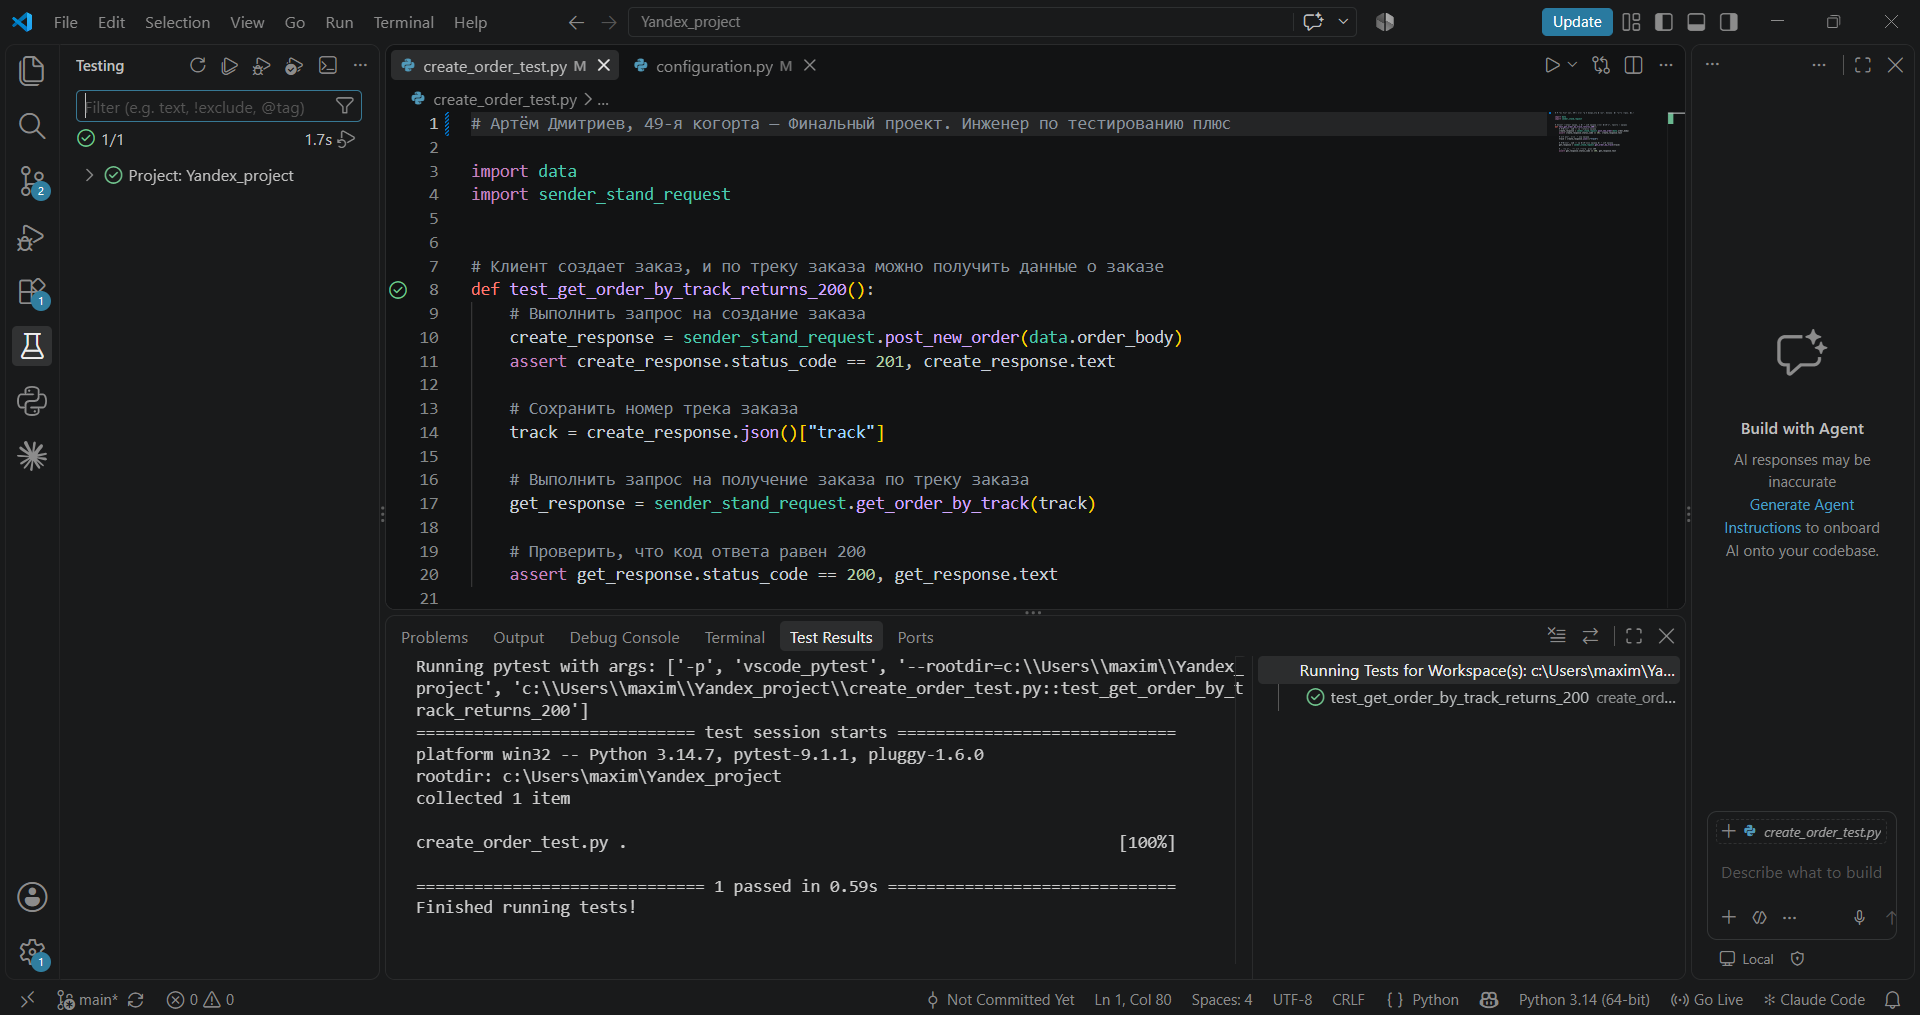
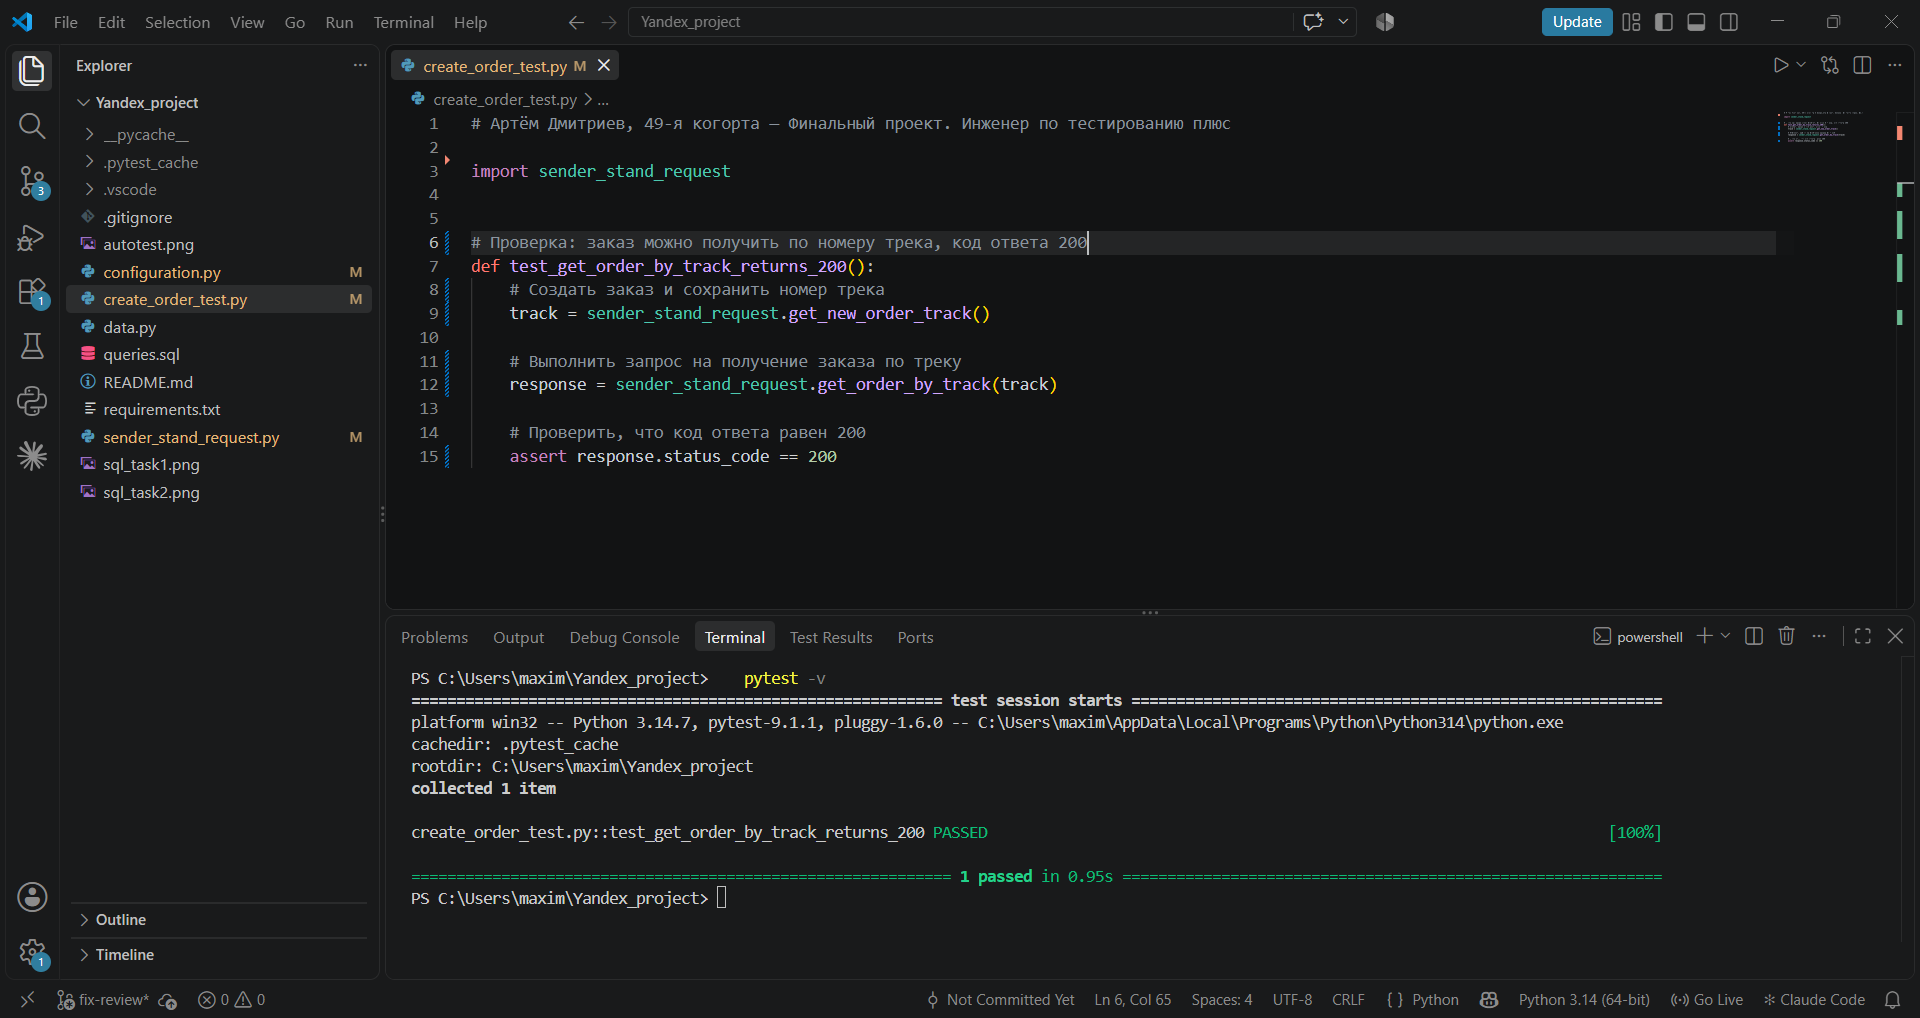
Тест проверяет одну функцию

diff --git a/create_order_test.py b/create_order_test.py
@@ -1,20 +1,15 @@
 # Артём Дмитриев, 49-я когорта — Финальный проект. Инженер по тестированию плюс
 
-import data
 import sender_stand_request
 
 
-# Клиент создает заказ, и по треку заказа можно получить данные о заказе
+# Проверка: заказ можно получить по номеру трека, код ответа 200
 def test_get_order_by_track_returns_200():
-    # Выполнить запрос на создание заказа
-    create_response = sender_stand_request.post_new_order(data.order_body)
-    assert create_response.status_code == 201, create_response.text
+    # Создать заказ и сохранить номер трека
+    track = sender_stand_request.get_new_order_track()
 
-    # Сохранить номер трека заказа
-    track = create_response.json()["track"]
-
-    # Выполнить запрос на получение заказа по треку заказа
-    get_response = sender_stand_request.get_order_by_track(track)
+    # Выполнить запрос на получение заказа по треку
+    response = sender_stand_request.get_order_by_track(track)
 
     # Проверить, что код ответа равен 200
-    assert get_response.status_code == 200, get_response.text
+    assert response.status_code == 200

diff --git a/sender_stand_request.py b/sender_stand_request.py
@@ -4,14 +4,20 @@ import configuration
 import data
 
 
-# Создание заказа: POST /api/v1/orders
+# Создание заказа
 def post_new_order(body):
     return requests.post(configuration.URL_SERVICE + configuration.CREATE_ORDER_PATH,
                          json=body,
                          headers=data.headers)
 
 
-# Получение заказа по номеру трека: GET /api/v1/orders/track?t=<трек>
+# Создание заказа и получение номера его трека
+def get_new_order_track():
+    response = post_new_order(data.order_body)
+    return response.json()["track"]
+
+
+# Получение заказа по номеру трека
 def get_order_by_track(track):
     return requests.get(configuration.URL_SERVICE + configuration.GET_ORDER_BY_TRACK_PATH,
                         params={"t": track})

diff --git a/configuration.py b/configuration.py
@@ -1,4 +1,4 @@
-URL_SERVICE = "https://5f3a07cc-d501-44c3-9703-82dc0c5fc60e.serverhub.praktikum-services.ru"
+URL_SERVICE = "https://2bb4340e-1288-43fd-855f-a59fec8a5350.serverhub.praktikum-services.ru"
 
 CREATE_ORDER_PATH = "/api/v1/orders"
 GET_ORDER_BY_TRACK_PATH = "/api/v1/orders/track"
